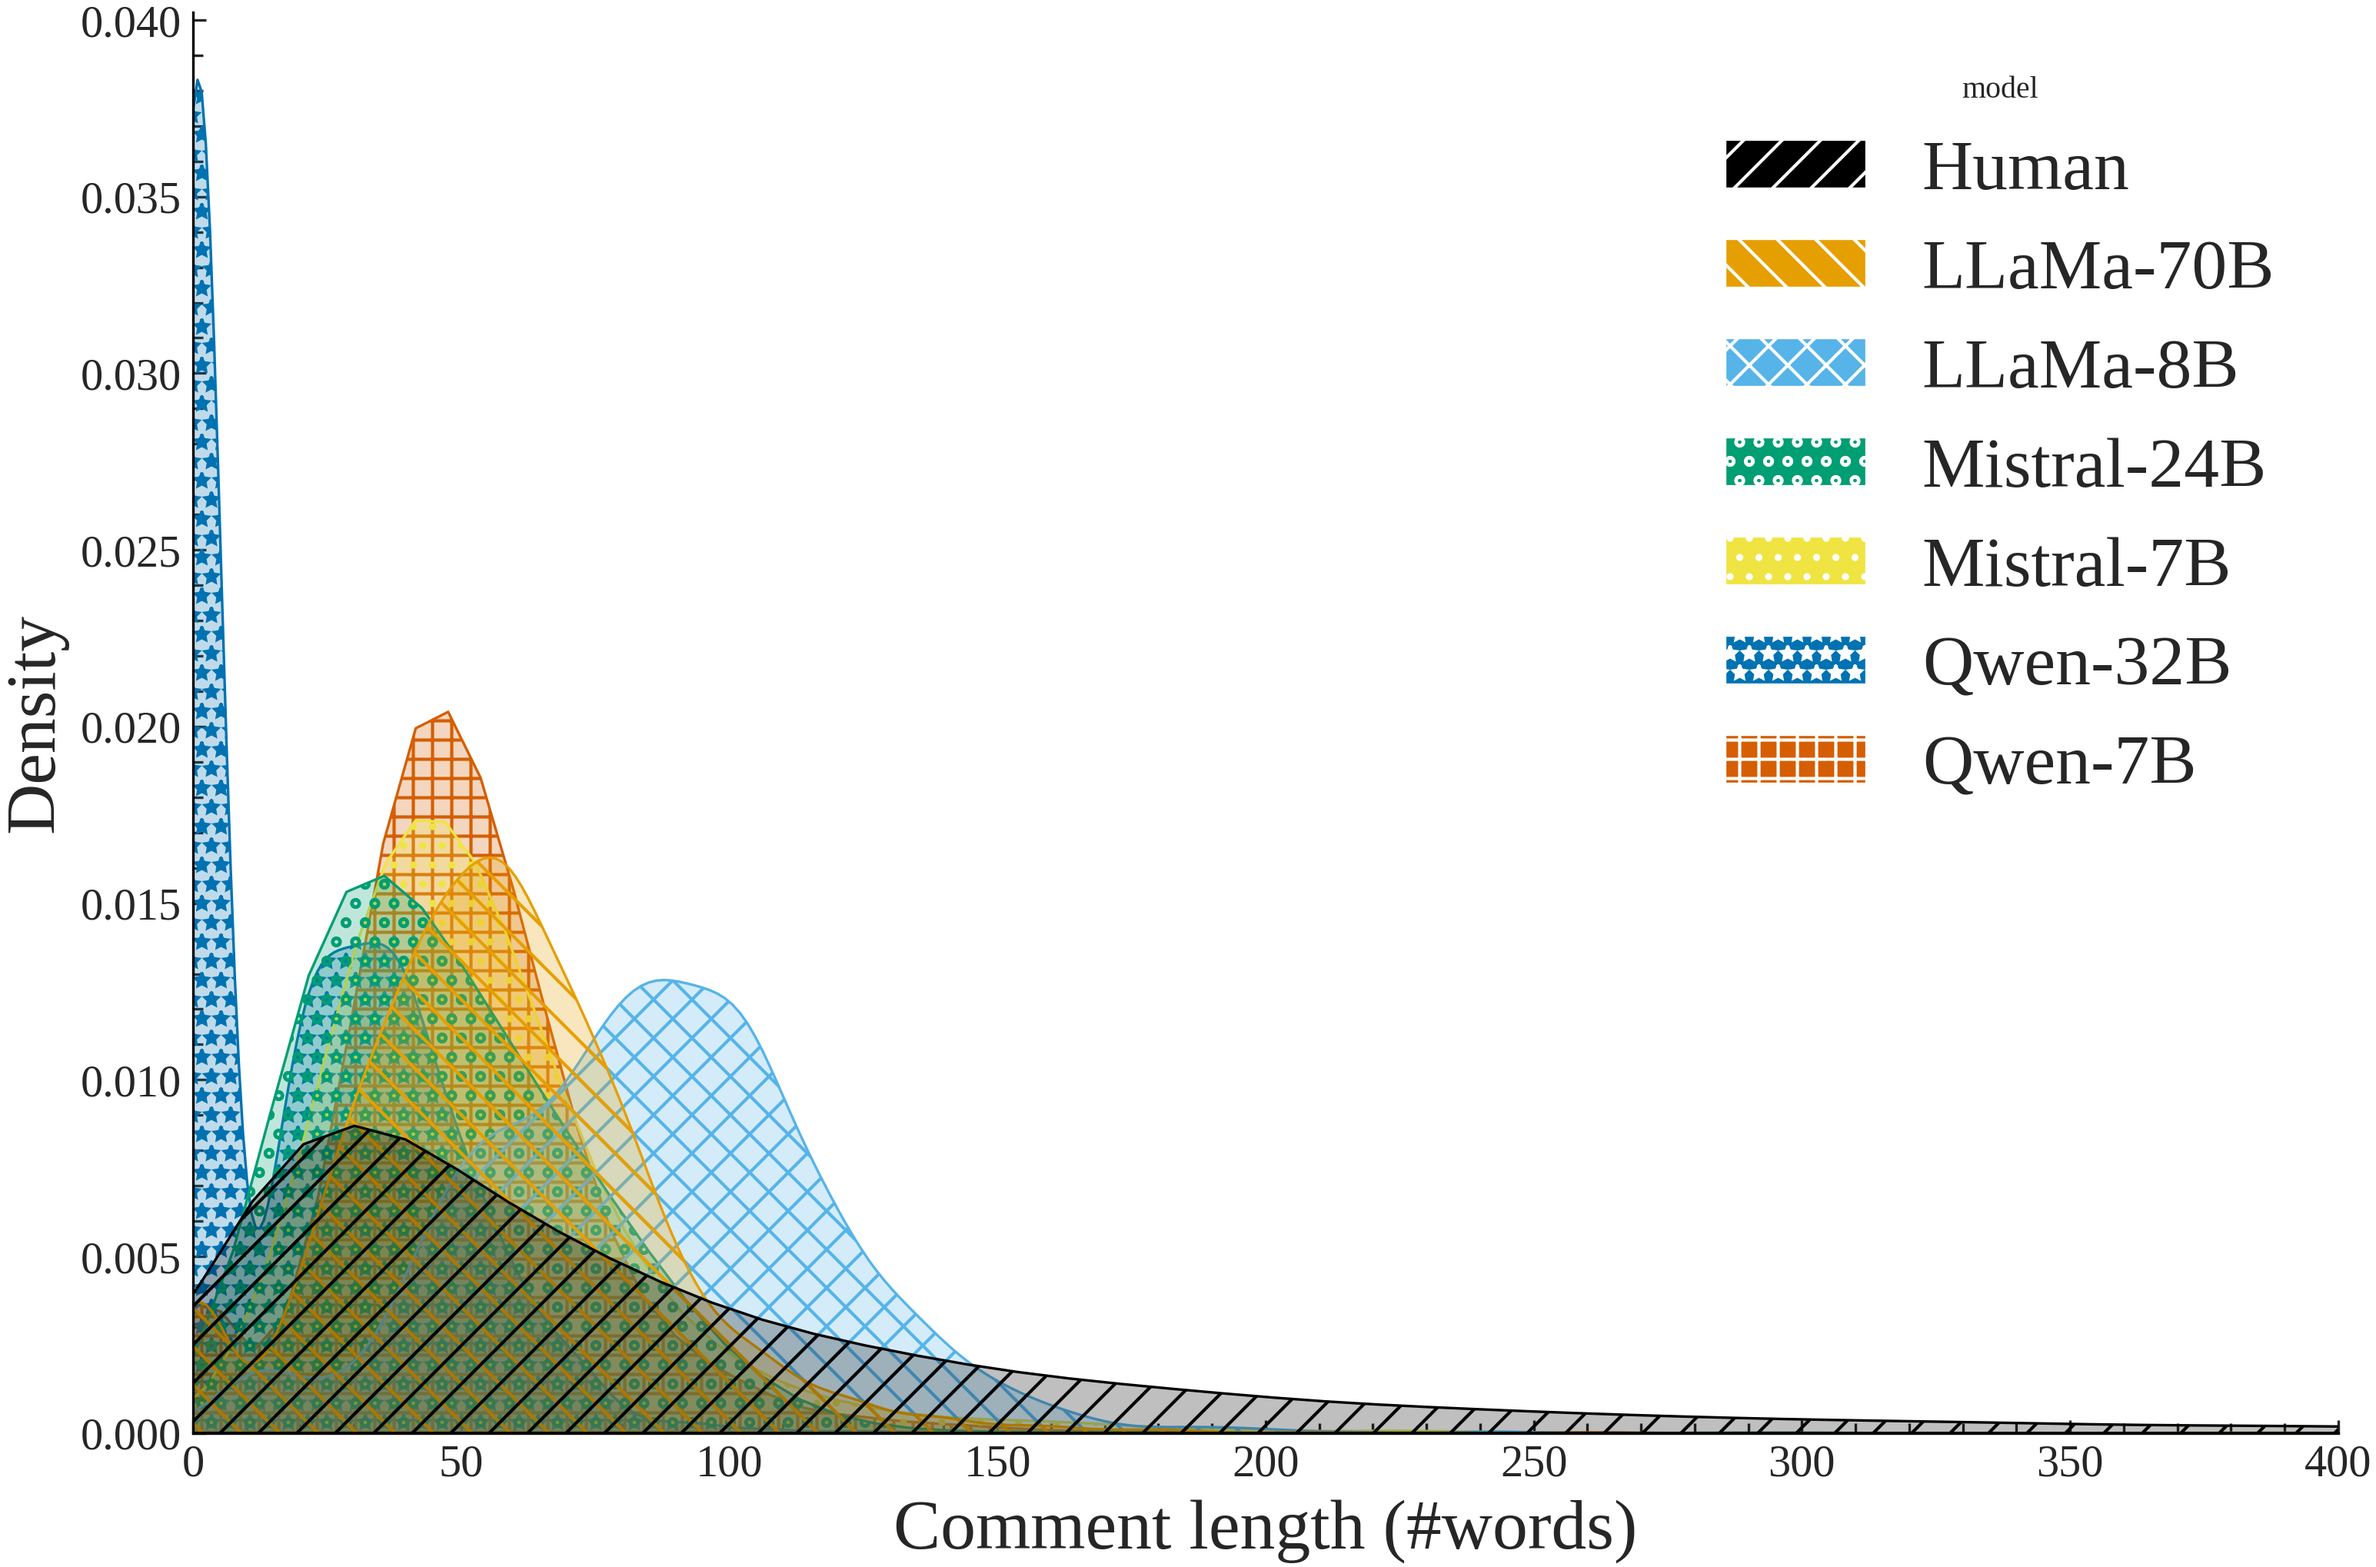
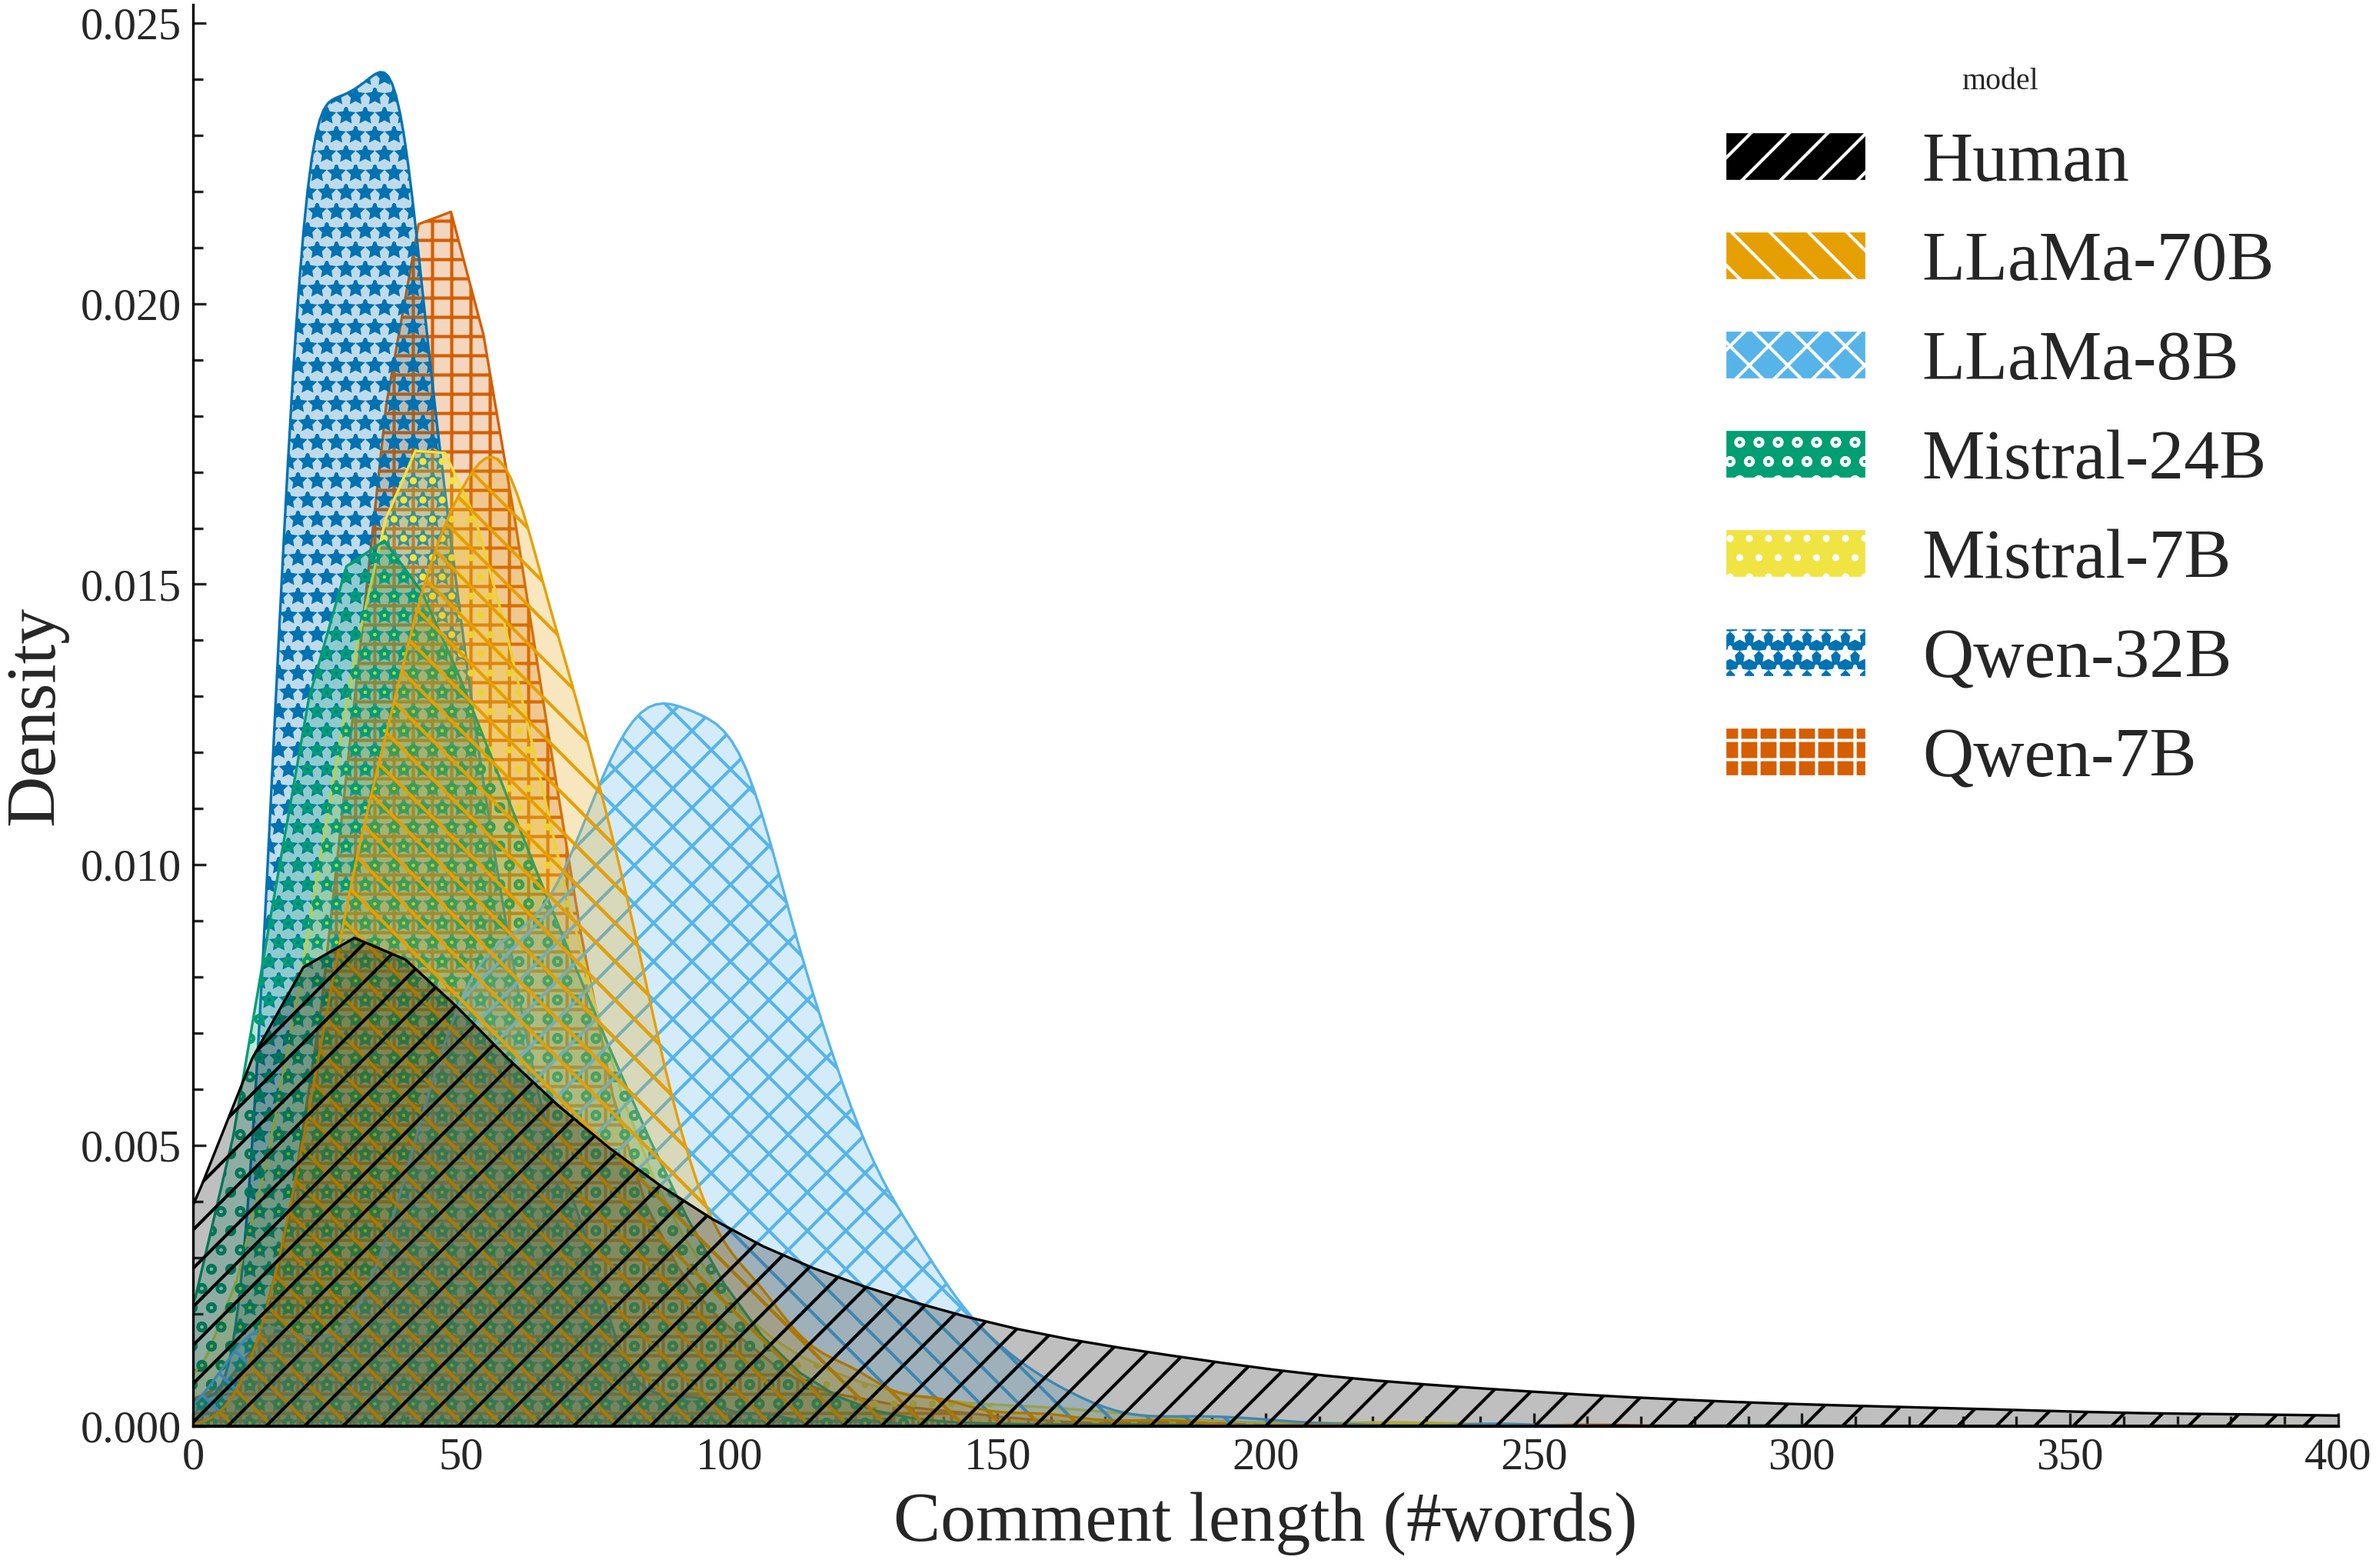
remove comments with no content

diff --git a/src/eval_dataset_analysis.py b/src/eval_dataset_analysis.py
@@ -64,7 +64,7 @@ def main(
         y_col="model",
         graph_output_dir=graph_output_dir,
         label_order=MODEL_ORDER,
-        palette=tasks.graphs.COLORBLIND_PALETTE
+        palette=tasks.graphs.COLORBLIND_PALETTE,
     )
 
     plot_dataset_diversity(
@@ -285,6 +285,8 @@ def plot_dataset_length(
     label_order: list[str],
     palette: list[str],
 ) -> None:
+    # filter out messages that are just a number of quotemarks
+    df = df[~df.message.fillna("").astype(str).str.fullmatch(r'[\s"]*')]
     len_df = df.loc[:, ["message", y_col]]
     len_df["comment_length"] = len_df.message.apply(lambda x: len(x.split()))
 
